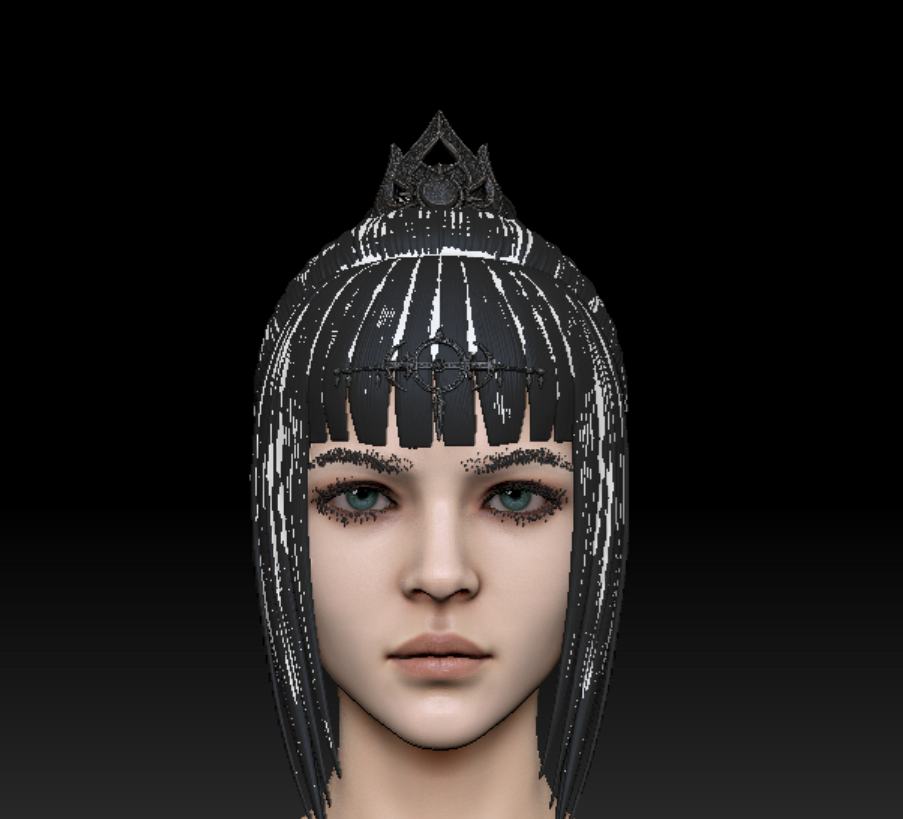
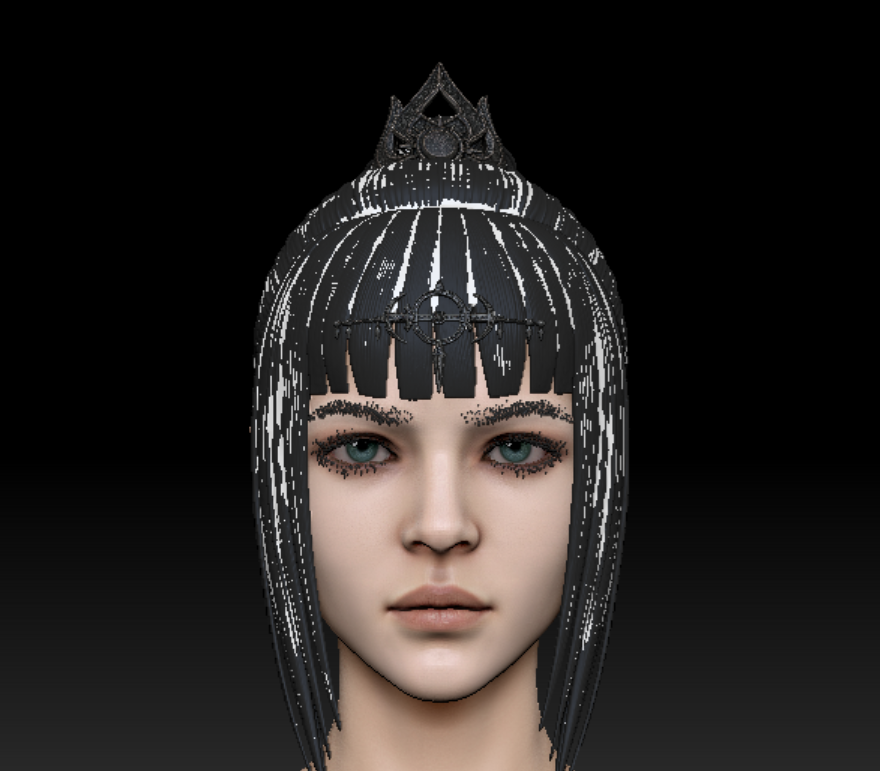
1

Changed region(s): [[0.2761, 0.0623, 0.7364, 1.0]]

diff --git a/blog-shadowheart.html b/blog-shadowheart.html
@@ -347,17 +347,26 @@
                 <p><span class="highlight">眉毛、睫毛、眼球补齐</span>：之前头部一直是空眼眶、没睫毛没眉毛的阴暗状态，这版把眉毛睫毛加上，眼球也给了合适的虹膜和瞳孔，整体看起来一下就完整了，眼神从之前有点阴暗，变成偏温和的性格。</p>
 
                 <div style="margin: 1.5rem 0; display: flex; flex-wrap: wrap; justify-content: center; gap: 1.5rem; align-items: flex-start;">
-                    <div style="flex: 0 1 42%; min-width: 280px; text-align: center;">
+                    <div style="flex: 0 1 28%; min-width: 260px; text-align: center;">
                         <img src="image/YINGXIN/1.png" alt="影心无眼球状态" style="width: 100%; height: auto; border-radius: 12px; box-shadow: 0 4px 20px rgba(139, 91, 122, 0.15); border: 1px solid rgba(139, 91, 122, 0.12);">
-                        <p style="color: var(--text-secondary); font-size: 0.9rem; margin-top: 0.8rem;">无眼球 / 有眉毛睫毛的"阴暗版"头部</p>
+                        <p style="color: var(--text-secondary); font-size: 0.9rem; margin-top: 0.8rem;">无眼球 / 有眉毛睫毛的"阴暗版"头部（个人偏爱这版）</p>
                     </div>
-                    <div style="flex: 0 1 42%; min-width: 280px; text-align: center;">
+                    <div style="flex: 0 1 28%; min-width: 260px; text-align: center;">
                         <img src="image/YINGXIN/2.png" alt="影心有眼球状态" style="width: 100%; height: auto; border-radius: 12px; box-shadow: 0 4px 20px rgba(139, 91, 122, 0.15); border: 1px solid rgba(139, 91, 122, 0.12);">
-                        <p style="color: var(--text-secondary); font-size: 0.9rem; margin-top: 0.8rem;">补齐眼球、眉毛、睫毛后的"温和版"头部</p>
+                        <p style="color: var(--text-secondary); font-size: 0.9rem; margin-top: 0.8rem;">补齐眼球眉毛睫毛的"温和版"（瞳孔偏大，后续再调）</p>
+                    </div>
+                    <div style="flex: 0 1 28%; min-width: 260px; text-align: center;">
+                        <img src="image/YINGXIN/4.png" alt="影心瞳孔缩小版" style="width: 100%; height: auto; border-radius: 12px; box-shadow: 0 4px 20px rgba(139, 91, 122, 0.15); border: 1px solid rgba(139, 91, 122, 0.12);">
+                        <p style="color: var(--text-secondary); font-size: 0.9rem; margin-top: 0.8rem;">瞳孔缩小后的修正版，眼神相对收敛</p>
                     </div>
                 </div>
 
-                <p>等会儿打算先把下半身的裤衩子改一下，现在的造型还过于潦草。说实话恨不得一天有48小时都可以用来学习和打磨。</p>
+                <p>另外趁热把下半身的裤衩子也改了一版。不过这版说实话自己都不太满意——整体感觉有点怪，尤其是前面那块垂布的颜色，怎么看怎么不舒服，大概之后还要再改好几轮。先把多视图放上来，作为第1版裤子的存档，后面继续迭代的时候可以对比。说实话恨不得一天有48小时都可以用来学习和打磨。</p>
+
+                <div style="margin: 1.5rem 0; text-align: center;">
+                    <img src="image/YINGXIN/3_第1次裤子高模多视图.jpg" alt="影心第1版裤装高模多视图" style="max-width: 80%; height: auto; border-radius: 12px; box-shadow: 0 4px 20px rgba(139, 91, 122, 0.15); border: 1px solid rgba(139, 91, 122, 0.12);">
+                    <p style="color: var(--text-secondary); font-size: 0.9rem; margin-top: 0.8rem;">第1版裤装高模多视图（正面垂布颜色观感不佳，后续继续调整）</p>
+                </div>
 
                 <div style="margin: 1.5rem 0; padding: 1rem 1.5rem; border-left: 3px solid #a89bc0; background: rgba(168, 155, 192, 0.06); border-radius: 0 8px 8px 0;">
                     <p style="margin: 0; color: var(--text-secondary); font-size: 0.95rem; line-height: 1.9;">
